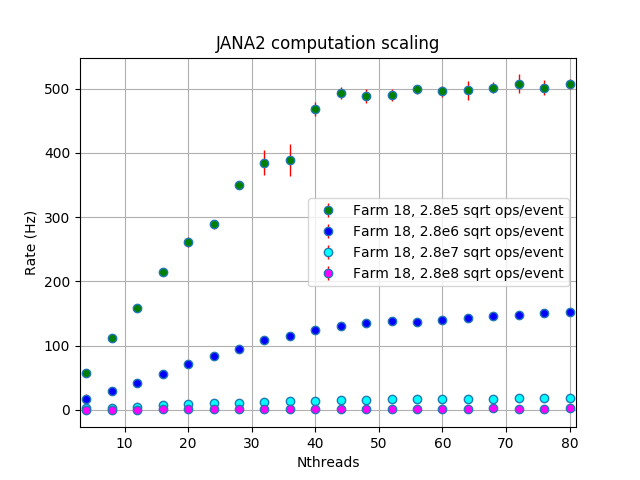
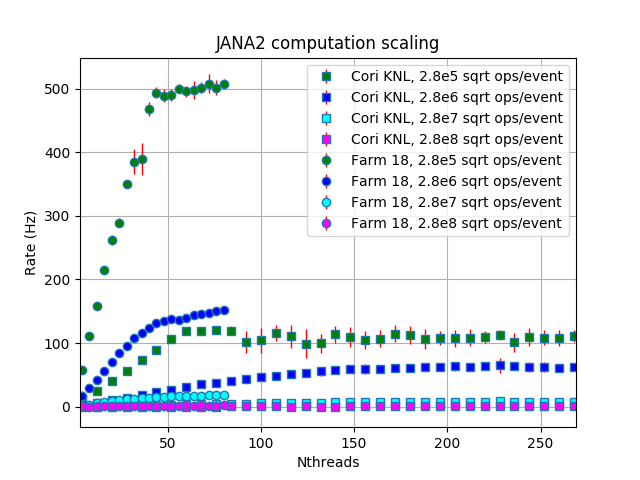
computation_scaling: plots for both farm and coriknl

diff --git a/computation_scaling/plot.py b/computation_scaling/plot.py
@@ -15,11 +15,11 @@ import matplotlib.pyplot as plt
 
 
 class Experiment:
-    def __init__(self, dir, label, color, line):
+    def __init__(self, dir, label, color, marker):
         self.dir = dir
         self.label = label
         self.color = color
-        self.line = line
+        self.marker = marker
 
 
 class PlotDef:
@@ -29,10 +29,10 @@ class PlotDef:
         self.description = description
         self.exps = []
 
-    def add_exp(self, dir, label, color, line):
-        self.exps.append(Experiment(dir, label, color, line=""))
+    def add_exp(self, dir, label, color, marker):
+        self.exps.append(Experiment(dir, label, color, marker))
 
-    def create(self):
+    def create(self, loc="best"):
         plt.figure()
         plt.title(self.title)
         plt.xlabel('Nthreads')
@@ -50,15 +50,16 @@ class PlotDef:
 
             # Create plot using matplotlib
             plt.errorbar(nthreads, avg_rate, rms_rate,
-                         linestyle=exp.line, ecolor='red',
-                         elinewidth=1, capthick=1, marker='o',
+                         linestyle='', ecolor='red',
+                         elinewidth=1, capthick=1, marker=exp.marker,
                          ms=6, markerfacecolor=exp.color, label=exp.label)
 
 
-        plt.legend()
+        plt.legend(loc=loc)
         plt.xlim(min_nthreads-1.0, max_nthreads+1.0)
         plt.grid(True)
         plt.savefig(self.filename + ".png")
+
 
 
 
@@ -66,13 +67,34 @@ plot1 = PlotDef()
 plot1.filename = "comp_scaling"
 plot1.title = "JANA2 computation scaling"
 
-#plot1.add_exp('exp1', 'Cori KNL, 2.8e5 sqrt ops/event', 'green', "")
-#plot1.add_exp('exp2', 'Cori KNL, 2.8e6 sqrt ops/event', 'blue', "")
-#plot1.add_exp('exp3', 'Cori KNL, 2.8e7 sqrt ops/event', 'cyan', "")
-#plot1.add_exp('exp4', 'Cori KNL, 2.8e8 sqrt ops/event', 'magenta', "")
-plot1.add_exp('exp5', 'Farm 18, 2.8e5 sqrt ops/event', 'green', "-")
-plot1.add_exp('exp6', 'Farm 18, 2.8e6 sqrt ops/event', 'blue', "-")
-plot1.add_exp('exp7', 'Farm 18, 2.8e7 sqrt ops/event', 'cyan', "-")
-plot1.add_exp('exp8', 'Farm 18, 2.8e8 sqrt ops/event', 'magenta', "-")
+plot1.add_exp('exp1', 'Cori KNL, 2.8e5 sqrt ops/event', 'green', "s")
+plot1.add_exp('exp2', 'Cori KNL, 2.8e6 sqrt ops/event', 'blue', "s")
+plot1.add_exp('exp3', 'Cori KNL, 2.8e7 sqrt ops/event', 'cyan', "s")
+plot1.add_exp('exp4', 'Cori KNL, 2.8e8 sqrt ops/event', 'magenta', "s")
+plot1.add_exp('exp5', 'Farm 18, 2.8e5 sqrt ops/event', 'green', "o")
+plot1.add_exp('exp6', 'Farm 18, 2.8e6 sqrt ops/event', 'blue', "o")
+plot1.add_exp('exp7', 'Farm 18, 2.8e7 sqrt ops/event', 'cyan', "o")
+plot1.add_exp('exp8', 'Farm 18, 2.8e8 sqrt ops/event', 'magenta', "o")
 
 plot1.create()
+
+plot2 = PlotDef()
+plot2.filename = "comp_scaling_coriknl"
+plot2.title = "JANA2 computation scaling, Cori KNL"
+
+plot2.add_exp('exp1', '2.8e5 sqrt ops/event', 'green', "s")
+plot2.add_exp('exp2', '2.8e6 sqrt ops/event', 'blue', "s")
+plot2.add_exp('exp3', '2.8e7 sqrt ops/event', 'cyan', "s")
+plot2.add_exp('exp4', '2.8e8 sqrt ops/event', 'magenta', "s")
+
+plot2.create(loc="upper right")
+
+plot3 = PlotDef()
+plot3.filename = "comp_scaling_farm18"
+plot3.title = "JANA2 computation scaling, Farm 18"
+
+plot3.add_exp('exp5', '2.8e5 sqrt ops/event', 'green', "o")
+plot3.add_exp('exp6', '2.8e6 sqrt ops/event', 'blue', "o")
+plot3.add_exp('exp7', '2.8e7 sqrt ops/event', 'cyan', "o")
+plot3.add_exp('exp8', '2.8e8 sqrt ops/event', 'magenta', "o")
+plot3.create(loc="center right")
